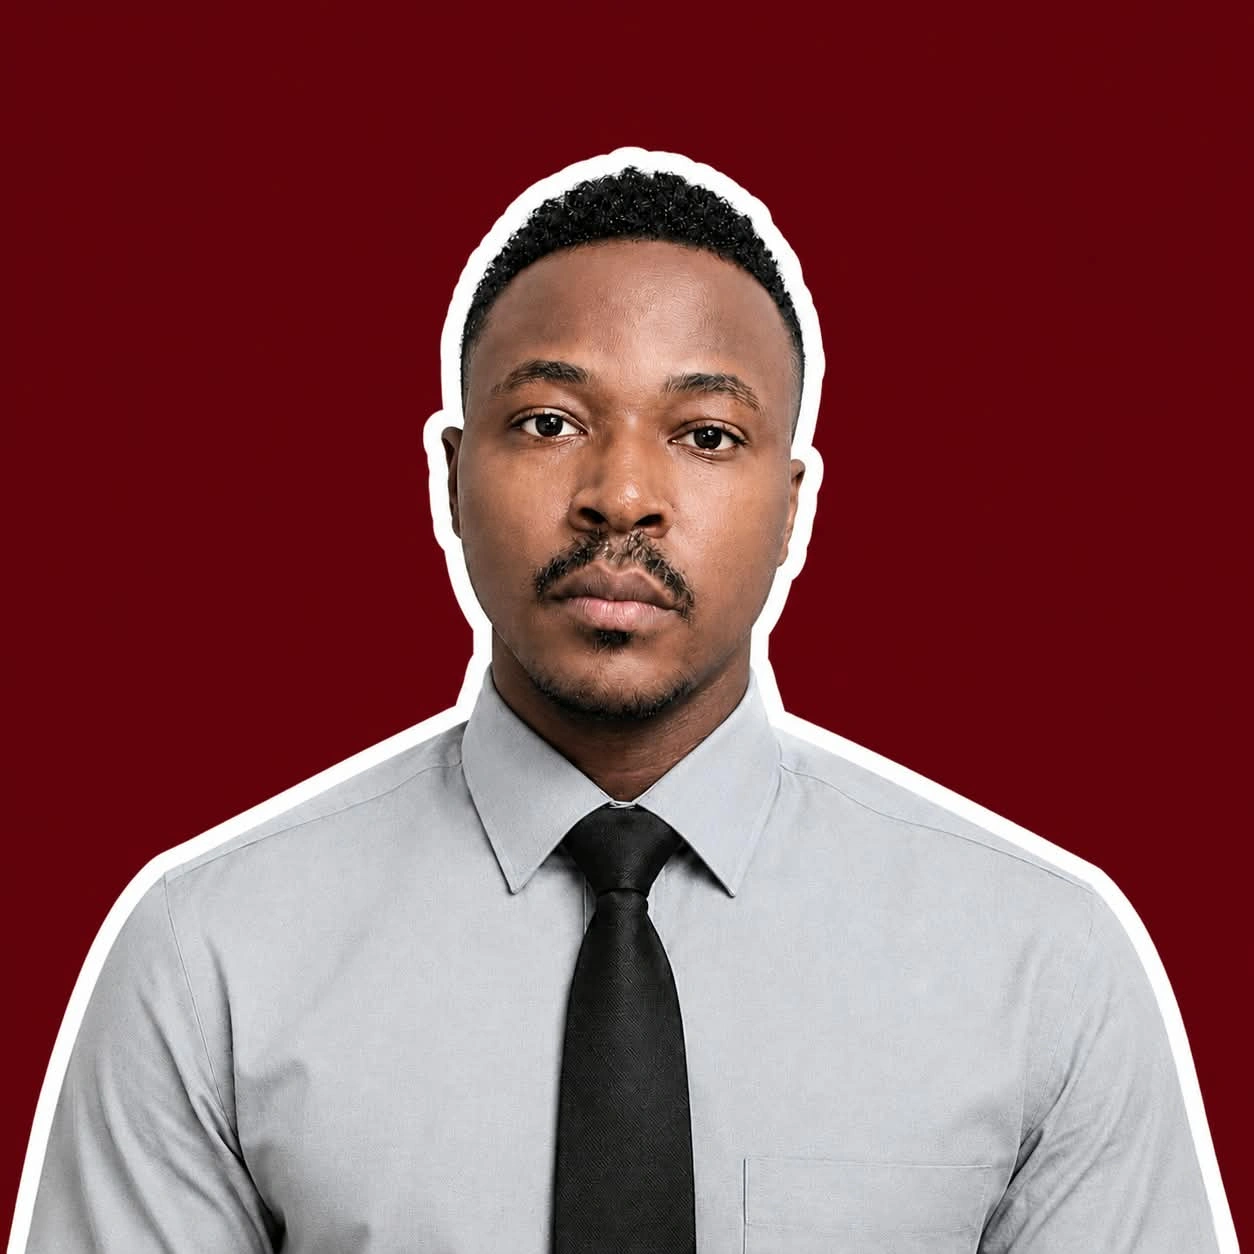
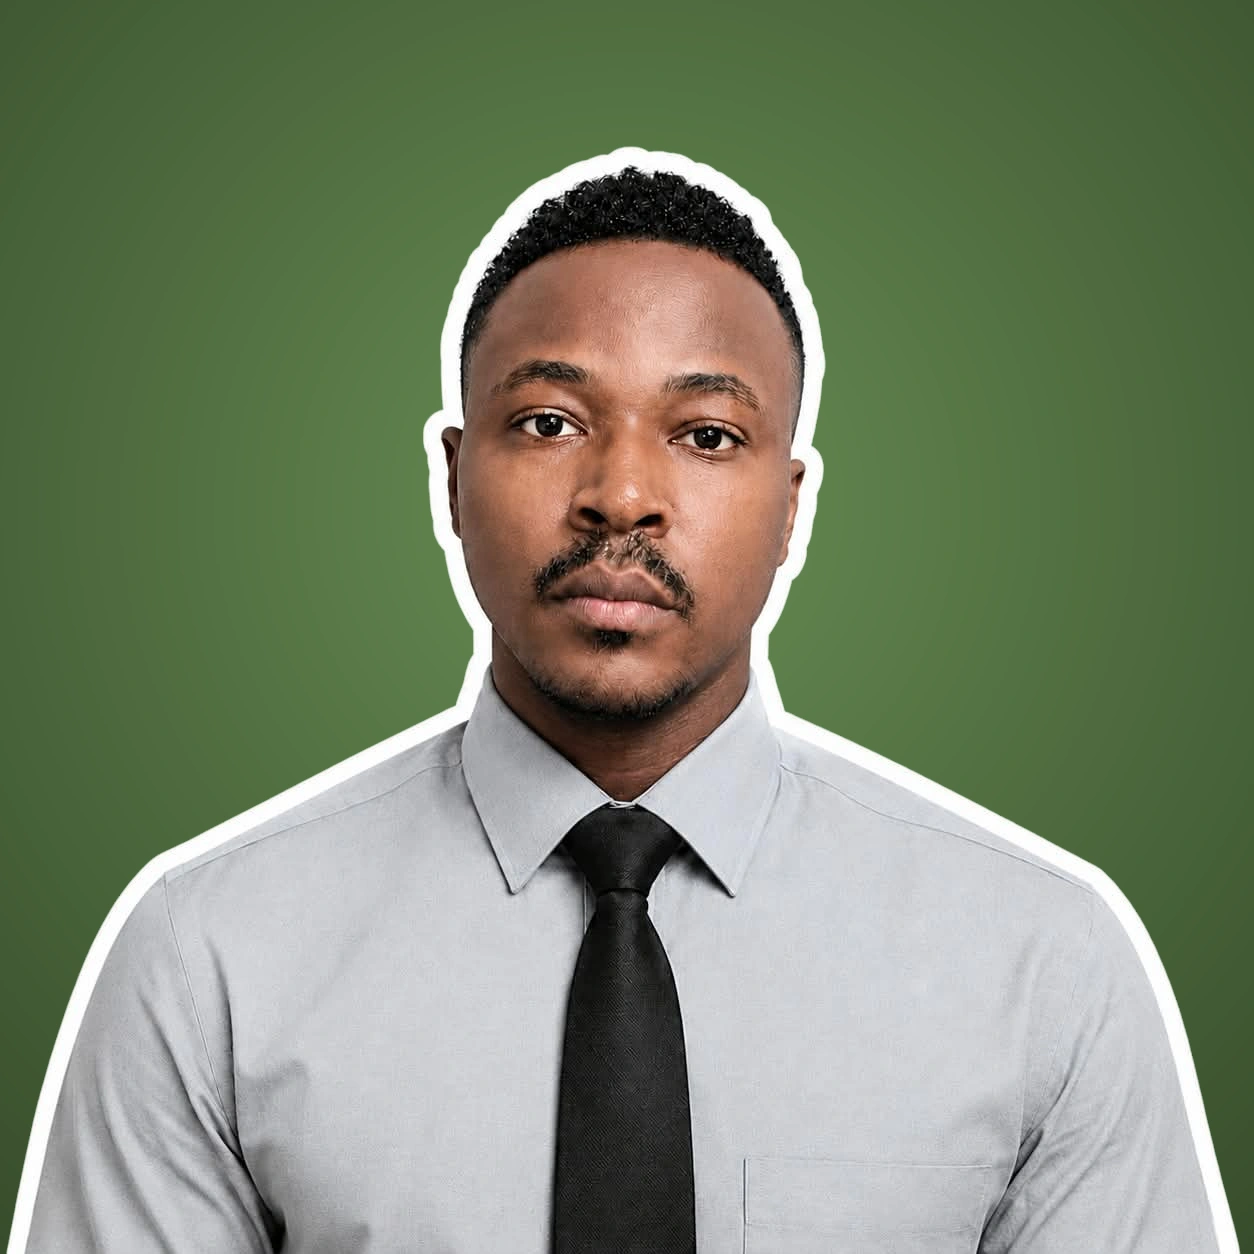
feat: modifier l'arriere-plan de la photo en vert treillis et harmoniser les assets

diff --git a/src/App.jsx b/src/App.jsx
@@ -3848,11 +3848,11 @@ function ContactSection({ onToast }) {
  FOOTER — simplifié v7 : QR centré + AKATECH MASSIF
  ════════════════════════════════════════════ */
 
-/* BeamsInteractive — fond statique orange, sans réactivité curseur */
+/* BeamsInteractive — fond statique vert treillis, sans réactivité curseur */
 function BeamsInteractive() {
   return (
     <Iridescence
-      color={[1, 0.22, 0.04]}
+      color={[0.37, 0.51, 0.29]}
       speed={0.28}
       amplitude={0.06}
       mouseReact={false}
